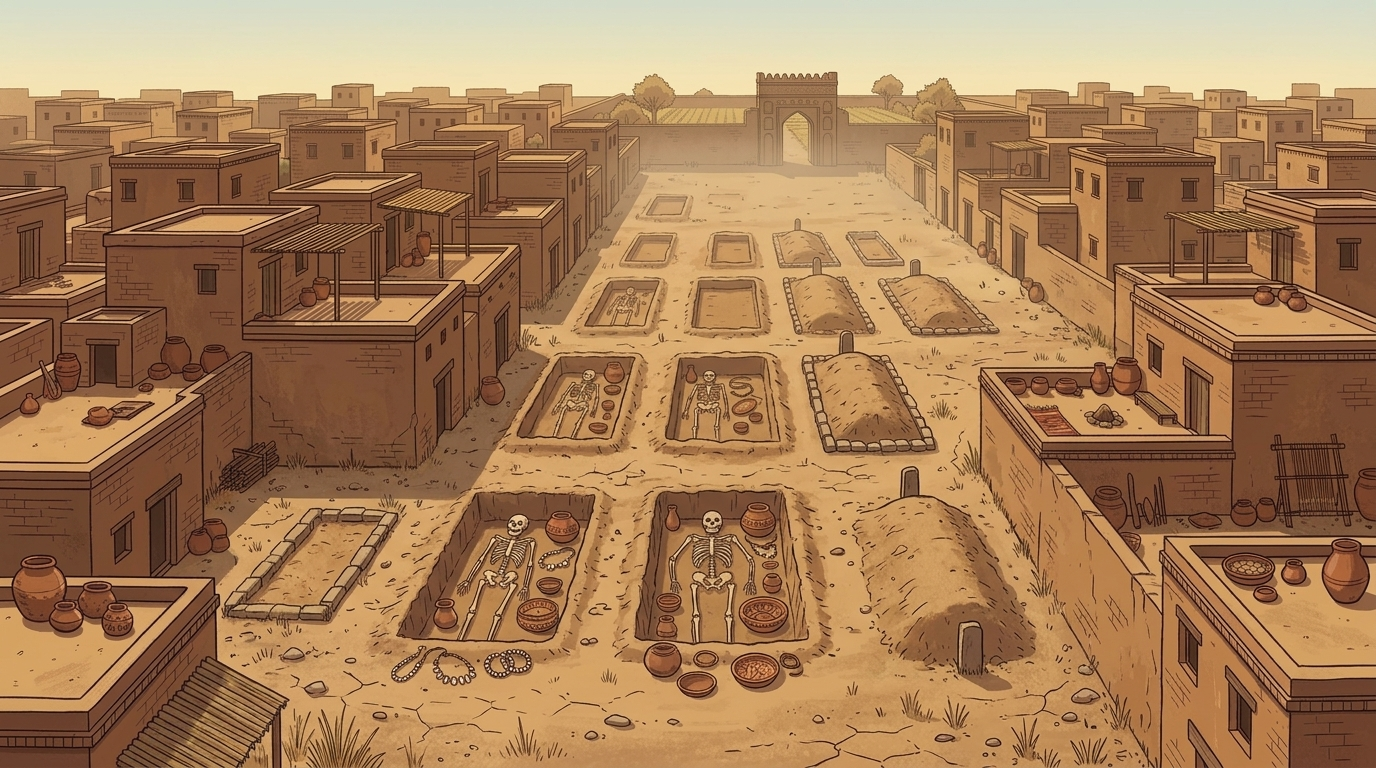
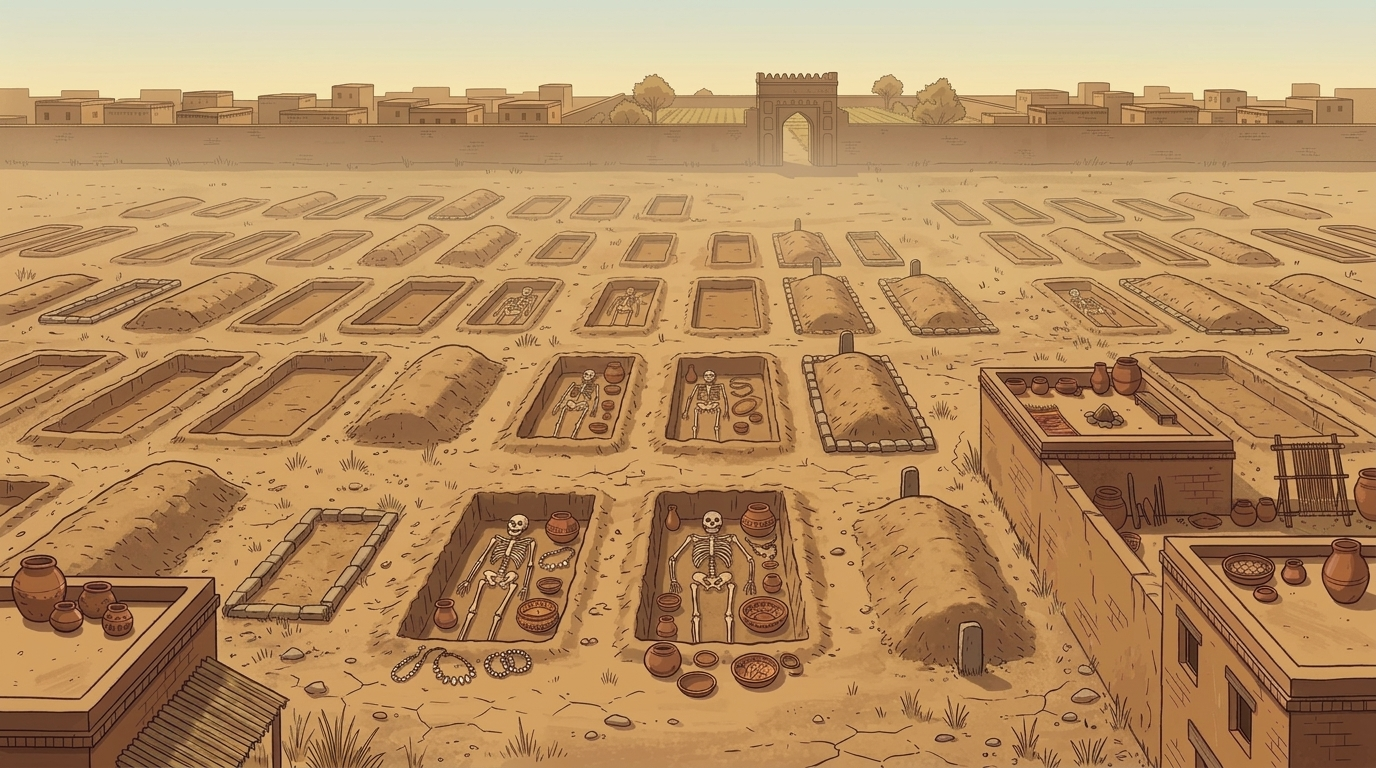
feat(indus): update Cemetery R37 to sprawling open burial field with back city wall, unexcavated plots, and Citadel passage gateway

diff --git a/frontend/app/play/indus/page.tsx b/frontend/app/play/indus/page.tsx
@@ -979,6 +979,21 @@ function IndusValleyGameComponent() {
     playerPos.y >= 45.0 &&
     playerPos.y <= 75.0;
 
+  // Stage 3: Cemetery R37 Upper Passage to Citadel Sanctuary (Top horizon archway)
+  const isNearCitadelPassage =
+    scene === "harappa_cemetery" &&
+    playerPos.x >= 44.0 &&
+    playerPos.x <= 72.0 &&
+    playerPos.y <= 34.0;
+
+  // Stage 3: Empty Burial Slot Hotspot
+  const isNearEmptyBurialPlot =
+    scene === "harappa_cemetery" &&
+    playerPos.x >= 15.0 &&
+    playerPos.x <= 35.0 &&
+    playerPos.y >= 45.0 &&
+    playerPos.y <= 68.0;
+
   // Stage 1.7: The Great Granary -> Return to Residential Grid (at bottom-left x: 22%, y: 82%)
   const isNearGranaryGridReturn =
     scene === "granary_avenue" &&
@@ -1752,6 +1767,9 @@ function IndusValleyGameComponent() {
         } else if (isNearCemeteryGate) {
           triggerTransition("harappa_cemetery", { x: 50.0, y: 82.0 }, 3, 600);
           return;
+        } else if (isNearCitadelPassage) {
+          triggerTransition("priest_king_citadel", { x: 50.0, y: 80.0 }, 4, 600);
+          return;
         } else if (isNearBeadQuarterEntrance) {
           triggerTransition("carnelian_bead_quarter", { x: 30.0, y: 70.0 });
           return;
@@ -1910,6 +1928,14 @@ function IndusValleyGameComponent() {
             title: "Elder of Cemetery R37 • Harappa",
             icon: "",
             text: "Peace be with our ancestors. Unlike the grandiose pyramid tombs of Egypt or royal graves of Sumer, Harappans honored all citizens with dignified, uniform earthen burials and modest pottery offerings.",
+          });
+          soundFx.playSelect();
+        } else if (isNearEmptyBurialPlot) {
+          setActiveCitizenDialogue({
+            name: "Unexcavated Earthen Burial Slot",
+            title: "Reserved Grave Mound • Cemetery R37",
+            icon: "",
+            text: "An open earthen grave plot preserved for future burial rituals. Harappans maintained dedicated rectangular burial spaces outside the living city grid.",
           });
           soundFx.playSelect();
         } else if (isNearRoadPedestrian) {
@@ -3014,6 +3040,26 @@ function IndusValleyGameComponent() {
               alt="Solemn Harappan Elder"
               className="h-[68px] sm:h-[75px] md:h-[84px] w-auto object-contain block select-none mt-1"
             />
+          </div>
+        )}
+
+        {/* Cemetery R37 -> Upper Passage to Citadel Workshop */}
+        {scene === "harappa_cemetery" && (
+          <div
+            className="absolute transform -translate-x-1/2 -translate-y-1/2 flex flex-col items-center pointer-events-auto cursor-pointer select-none group z-20"
+            style={{ left: "58%", top: "22%" }}
+            onClick={() => triggerTransition("priest_king_citadel", { x: 50.0, y: 80.0 }, 4, 600)}
+          >
+            {isNearCitadelPassage ? (
+              <div className="bg-[#fffdf5] border-[1.5px] border-black text-black px-1.5 py-0.5 rounded text-[10px] font-bold shadow-[2px_2px_0px_0px_rgba(0,0,0,1)] animate-bounce flex items-center gap-1.5 whitespace-nowrap transition-transform hover:translate-y-[1px] hover:shadow-[1px_1px_0px_0px_rgba(0,0,0,1)]">
+                <div className="bg-[#ffb000] border-[1.5px] border-black text-black rounded-sm px-1 py-0 text-[8px] font-black shadow-[1px_1px_0px_0px_rgba(0,0,0,1)]">E</div>
+                <span>✨ Passage to Citadel Workshop (Press E)</span>
+              </div>
+            ) : (
+              <div className="opacity-0 group-hover:opacity-100 transition-opacity duration-200 bg-[#1b1510]/90 border border-[#d8a86a]/60 text-[#f7eedf] px-2.5 py-1 rounded text-[11px] font-serif shadow-md whitespace-nowrap">
+                <span>Passage to Citadel Workshop</span>
+              </div>
+            )}
           </div>
         )}
 

diff --git a/frontend/app/play/indus/constants.ts b/frontend/app/play/indus/constants.ts
@@ -155,10 +155,10 @@ export const INDUS_SCENE_CONFIGS: Record<IndusSceneType, IndusSceneMeta> = {
     subtitle: "Rectangular Earthen Graves & Terracotta Funerary Offerings",
     backgroundImage: "/bg-indus-cemetery.jpg",
     defaultObjective: "Explore the ancient Harappan burial ground, inspect excavated rectangular graves, and examine authentic terracotta pottery offerings.",
-    minX: 16.0,
+    minX: 12.0,
     maxX: 88.0,
-    minY: 28.0,
-    maxY: 92.0,
+    minY: 20.0,
+    maxY: 94.0,
   },
   priest_king_citadel: {
     title: "Harappan Toy Making Workshop",
